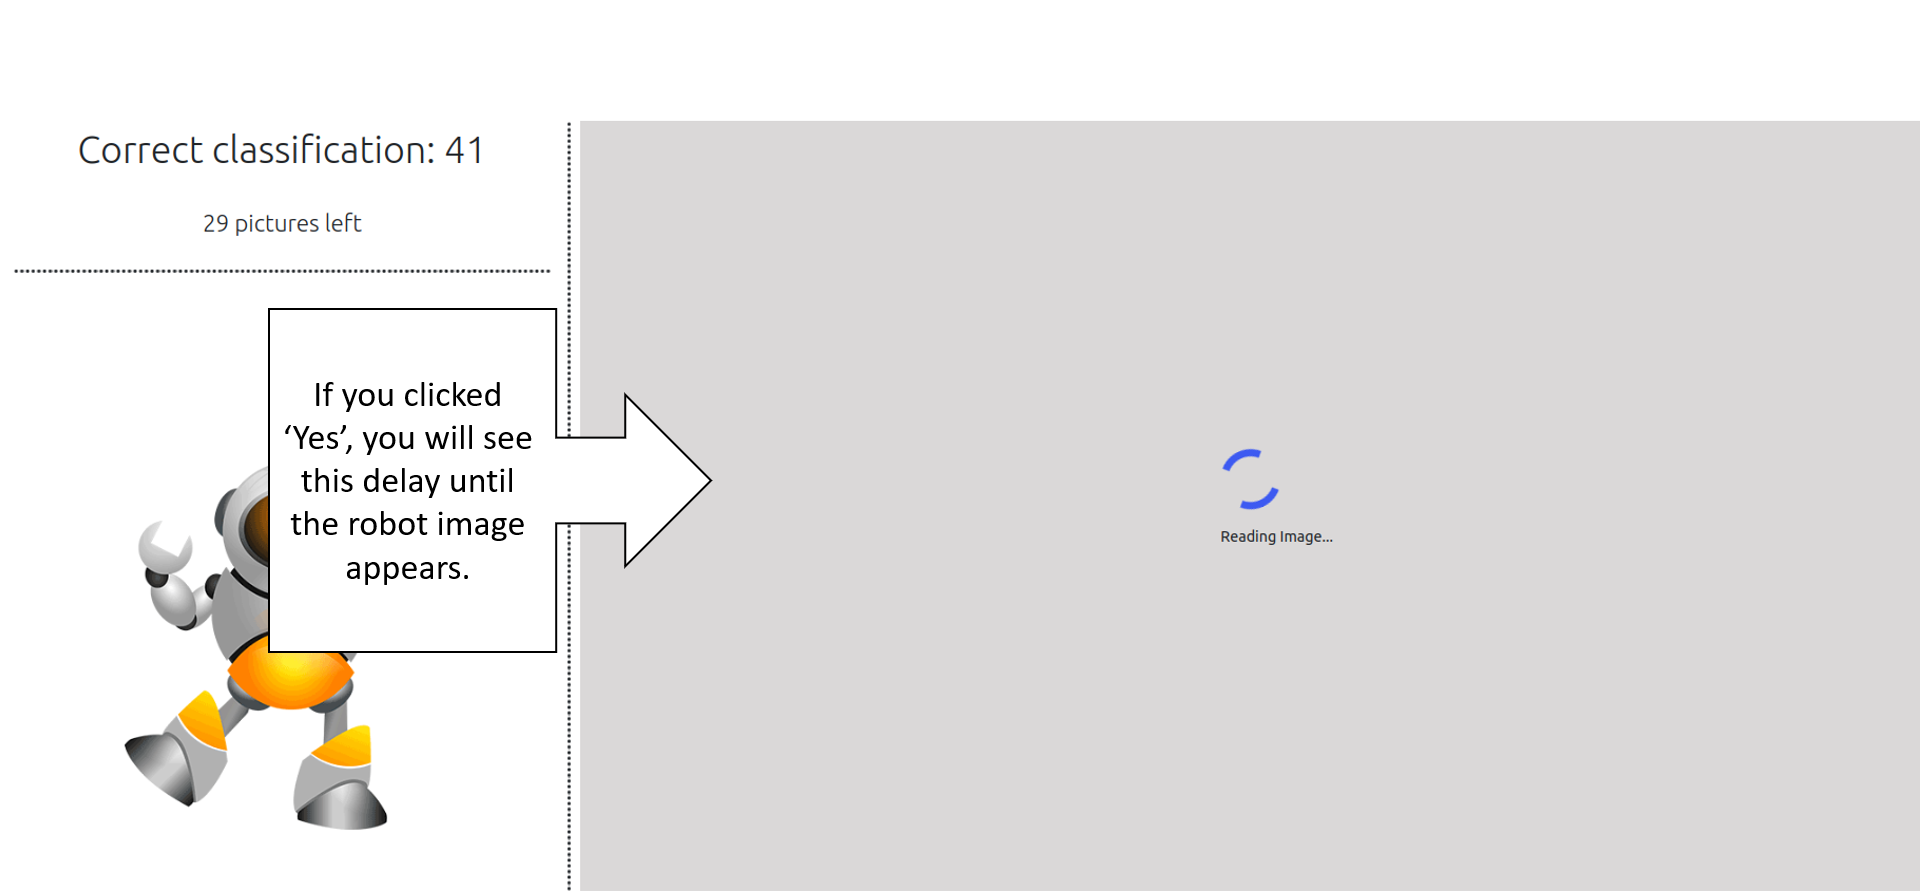
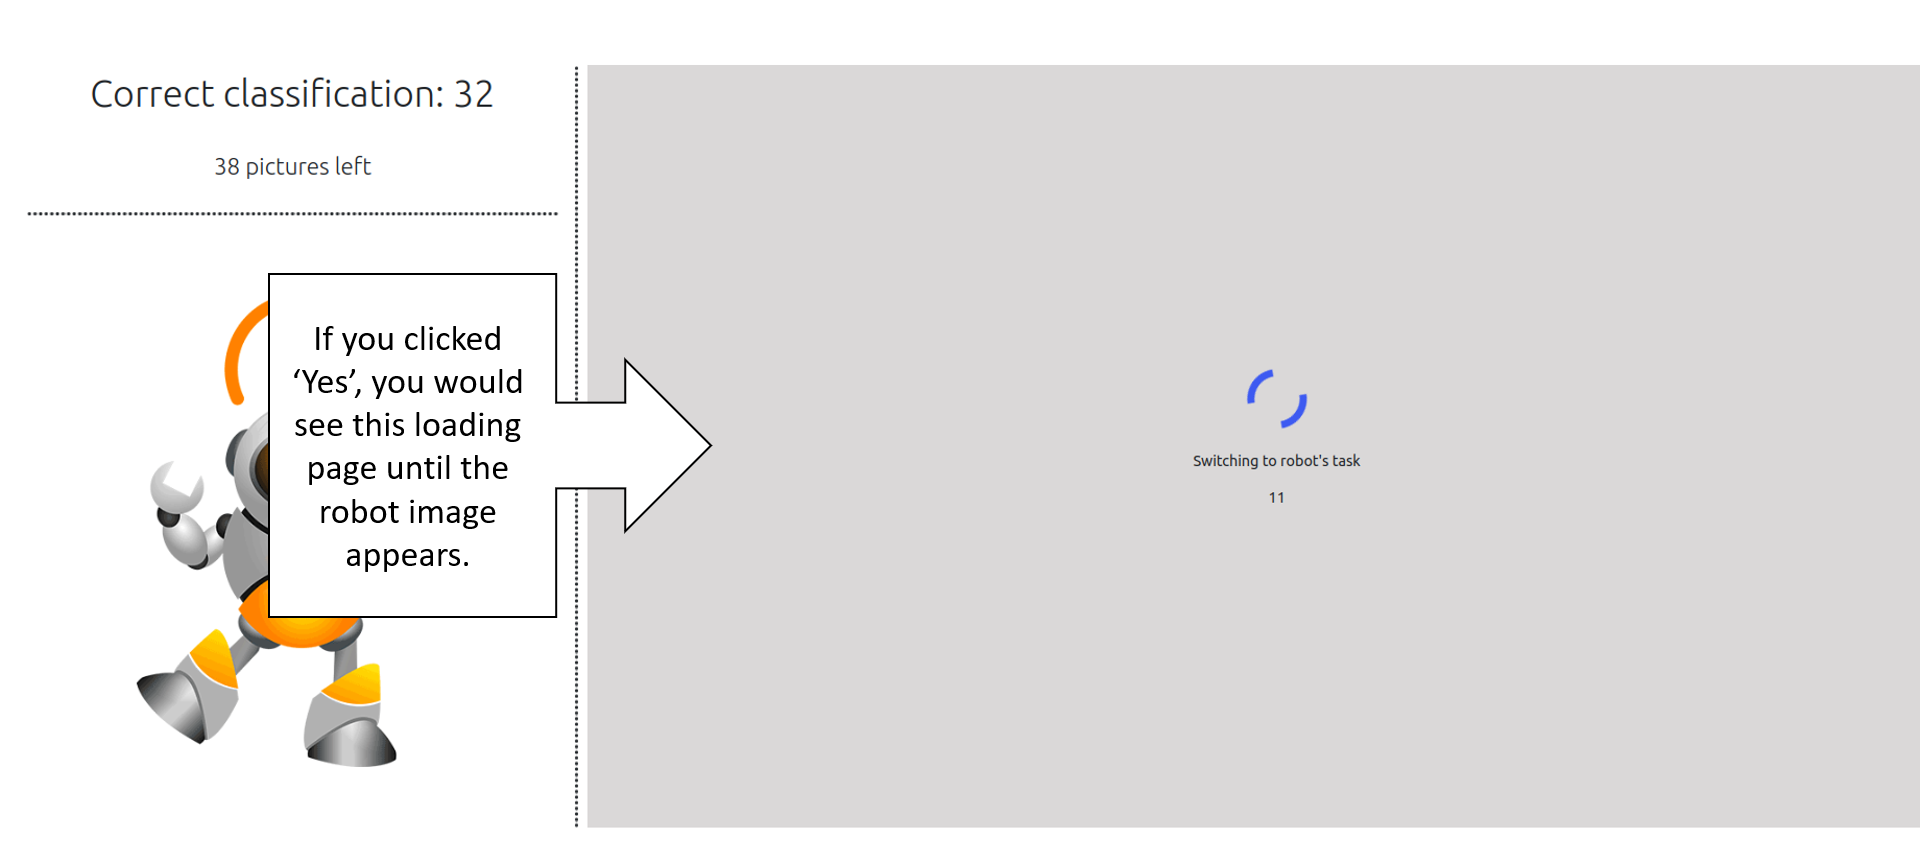
made public and fix the quiz and the loading page

diff --git a/src/game/gamePage.js b/src/game/gamePage.js
@@ -23,7 +23,9 @@ function GamePage() {
     const [clickedYes, addClickYes] = useState(0);
     const [robotImgSrc, setImgSrc] = useState("radio-bot-animated.gif");
     const [loading, setLoading] = useState(false);
-    const [loadingActivity, setLoadingAct] = useState("Reading Image...")
+    const [loadingActivity, setLoadingAct] = useState("");
+    const [robotAct, setRobotAct] = useState("Switching to robot's task")
+    const [firstLoading, setFirst] = useState(0);
 
     /**
      * Send a help request after getting 60 or 85 classifications or notify when game ended
@@ -32,7 +34,7 @@ function GamePage() {
         // if (score % 3 === 0) {
         //     setHelpRequest(true);
         // }
-        if (score === 41) {
+        if (score === 32) {
             setHelpRequest(true);
         }
         if (score === 57) {
@@ -40,23 +42,31 @@ function GamePage() {
         }
         if(score === 70){
             onCompleteGame();
+
         }
 
   }, [score]);
 
     useEffect(() => {
+        let seconds;
+        if (firstLoading === 1) { seconds = 15; }
+        else if (firstLoading === 2) { seconds = 20; }
         if (loading) {
-            setTimeout(() => setLoadingAct("action2"), 5000);
-            setTimeout(() => setLoadingAct("action3"), 10000);
-            setTimeout(() => setLoadingAct("action4"), 15000);
+            for (let i=0; i<seconds; i++)
+            setTimeout(() => setLoadingAct((seconds - i).toString()), 1000 * (i + 1));
         }
-    }, [loading])
+        setTimeout(() => {
+            if (firstLoading === 1){
+                setRobotAct("Switching back to your task");
+                setLoadingAct("");
+            }
+            else if (firstLoading === 2){
+                setRobotAct("Switching to the robot's task");
+                setLoadingAct("");
+            }
+        }, (seconds + 1) * 1000);
+    }, [firstLoading])
 
-    // useEffect(() => {
-    //     if(score === 100){
-    //         onCompleteGame();
-    //     }
-    // }, [score]);
 
     const [play_right_sound] = useSound('/sounds/right.mp3');
     const [play_wrong_sound] = useSound('/sounds/wrong.mp3')
@@ -111,8 +121,10 @@ function GamePage() {
     const afterHelp = () => {
         return new Promise(() => {
             setRobot("Thank You!")
-
-            setTimeout(() => setRobot("Robot is currently classifying pictures"), 5000);
+            setTimeout(() => setRobot("Robot is currently classifying pictures"), 21000);
+            setLoading(true);
+            setFirst(2);
+            setTimeout(() => {setLoading(false)}, 21000);
         })
     }
 
@@ -146,7 +158,8 @@ function GamePage() {
             //setImgSrc("");
             addClickYes(clickedYes + 1);
             setLoading(true);
-            setTimeout(() => {setLoading(false)}, 30000);
+            setFirst(1);
+            setTimeout(() => {setLoading(false)}, 16000);
             websocket.send(JSON.stringify({"action": "get-bot-image", "session": session})); //maybe sync?
     }
 
@@ -190,8 +203,9 @@ function GamePage() {
                                 {loading ?
                                     <div className="loader-container">
                                         <div className={"list"}>
-                                            <ul><div className="spinner"></div></ul>
-                                        <ul>{loadingActivity}</ul> {/*todo: the assigment from dudi*/}
+                                            <ul className={"list-spinner"}><div className="spinner"></div></ul>
+                                            <ul>{robotAct}</ul>
+                                            <ul className={"list-text"}>{loadingActivity}</ul>
                                         </div>
                                     </div> :
                                 <div>

diff --git a/src/instructions/awarenessQuiz.js b/src/instructions/awarenessQuiz.js
@@ -14,8 +14,8 @@ function AwarenessQuiz() {
   const correctAnswers = {
     "Q1": "You will get no payment",
     "Q2": "I can choose to help the robot (click 'Yes') or not (click 'No')",
-    "Q3": "The robot's current picture will be displayed after 30 seconds and I will need to classify it (dog or cat)," +
-        " then return to my own task",
+    "Q3": "The robot's current picture will be displayed after few seconds and I will need to classify it (dog or cat)," +
+        " then after few more seconds it return to my own task (about 30-40 seconds total)",
     "Q4": "Once I classify correctly 70 pictures"
   }
 
@@ -92,26 +92,31 @@ function AwarenessQuiz() {
     return JSON.stringify(answers) === JSON.stringify(correctAnswers);
   }
 
+  // const addTimesAsync = async () => {
+  //   setTimes(timesFailed + 1);
+  // }
+
   const onComplete = (survey, options) => {
     if (hasAnsweredCorrectly(survey.data)) {
       setPassed(true);
     } else {
       setTimes(timesFailed + 1);
       if (timesFailed !== 2) {
-             setFailed(true);
+        setFailed(true);
         setTimeout(() => {
           onCloseTryModel();
           setWrongAnswers([]);
         }, 2500);
       }
-
-    }
-    if (timesFailed === 2) {
+       else if (timesFailed === 2) {
       websocket.send(JSON.stringify({"action": "failed-quiz", "answers": survey.data, "session": session}))
       surveyModel.clear();
       setOpenFailedModal(true);
       setTimeout(throwOutFromExperiment, 8 * 1000);
     }
+
+    }
+
   }
 
   const onCloseFailedModal = () => setOpenFailedModal(false);

diff --git a/src/instructions/gameInstructions.js b/src/instructions/gameInstructions.js
@@ -33,7 +33,8 @@ function GameInstructions() {
           picture. When this occurs, the robot might ask for your help. It is up to you to decide if you want to help
           the robot (while helping you cannot progress with your own classification task).<br/>
         <span style={{"fontWeight": "bold", "fontSize": "calc(1.2rem + .5vw)", "color": "red"}}> Notice! &nbsp;</span>
-        Once you decided to help, your task will be delayed for 30 seconds while the robot calculate the help request.<br/>
+        Helping the robot takes time as we need to save your current state and stream the robot's task instead (and then
+         switch back). We estimate this interruption to take around 30-40 seconds.<br/>
           You will not get score for identifying the robot's pictures.<br/>Once you finish correctly classifying 70
         pictures, we will ask for a short feedback.
       </p>

diff --git a/src/instructions/tutorial.js b/src/instructions/tutorial.js
@@ -5,7 +5,7 @@ import {useHistory} from "react-router-dom";
 import PageTimeTracker from "../utils/pageTimeTracker";
 
 function Tutorial() {
-  const pictures = ['image1.png', 'image1.png', 'image2.png', 'image3.png', 'image4.png']
+  const pictures = ['image1.png', 'image2.png', 'image3.png', 'image4.png', 'image5.png', 'image6.png']
 
   const [currentPictureIdx, setCurrentPictureIdx] = useState(0);
 

diff --git a/src/game/gamePage.css b/src/game/gamePage.css
@@ -135,7 +135,20 @@
 
 .list {
     vertical-align: middle;
+    text-align: center;
+    position: absolute;
+    /*display: flex;*/
+
 }
+
+.list-spinner {
+    display: inline-block;
+}
+/*.list-text {*/
+/*    text-align: center;*/
+/*    font-size: 20px;*/
+/*    position: absolute;*/
+/*}*/
 
 .loader-container {
     width: 70%;
